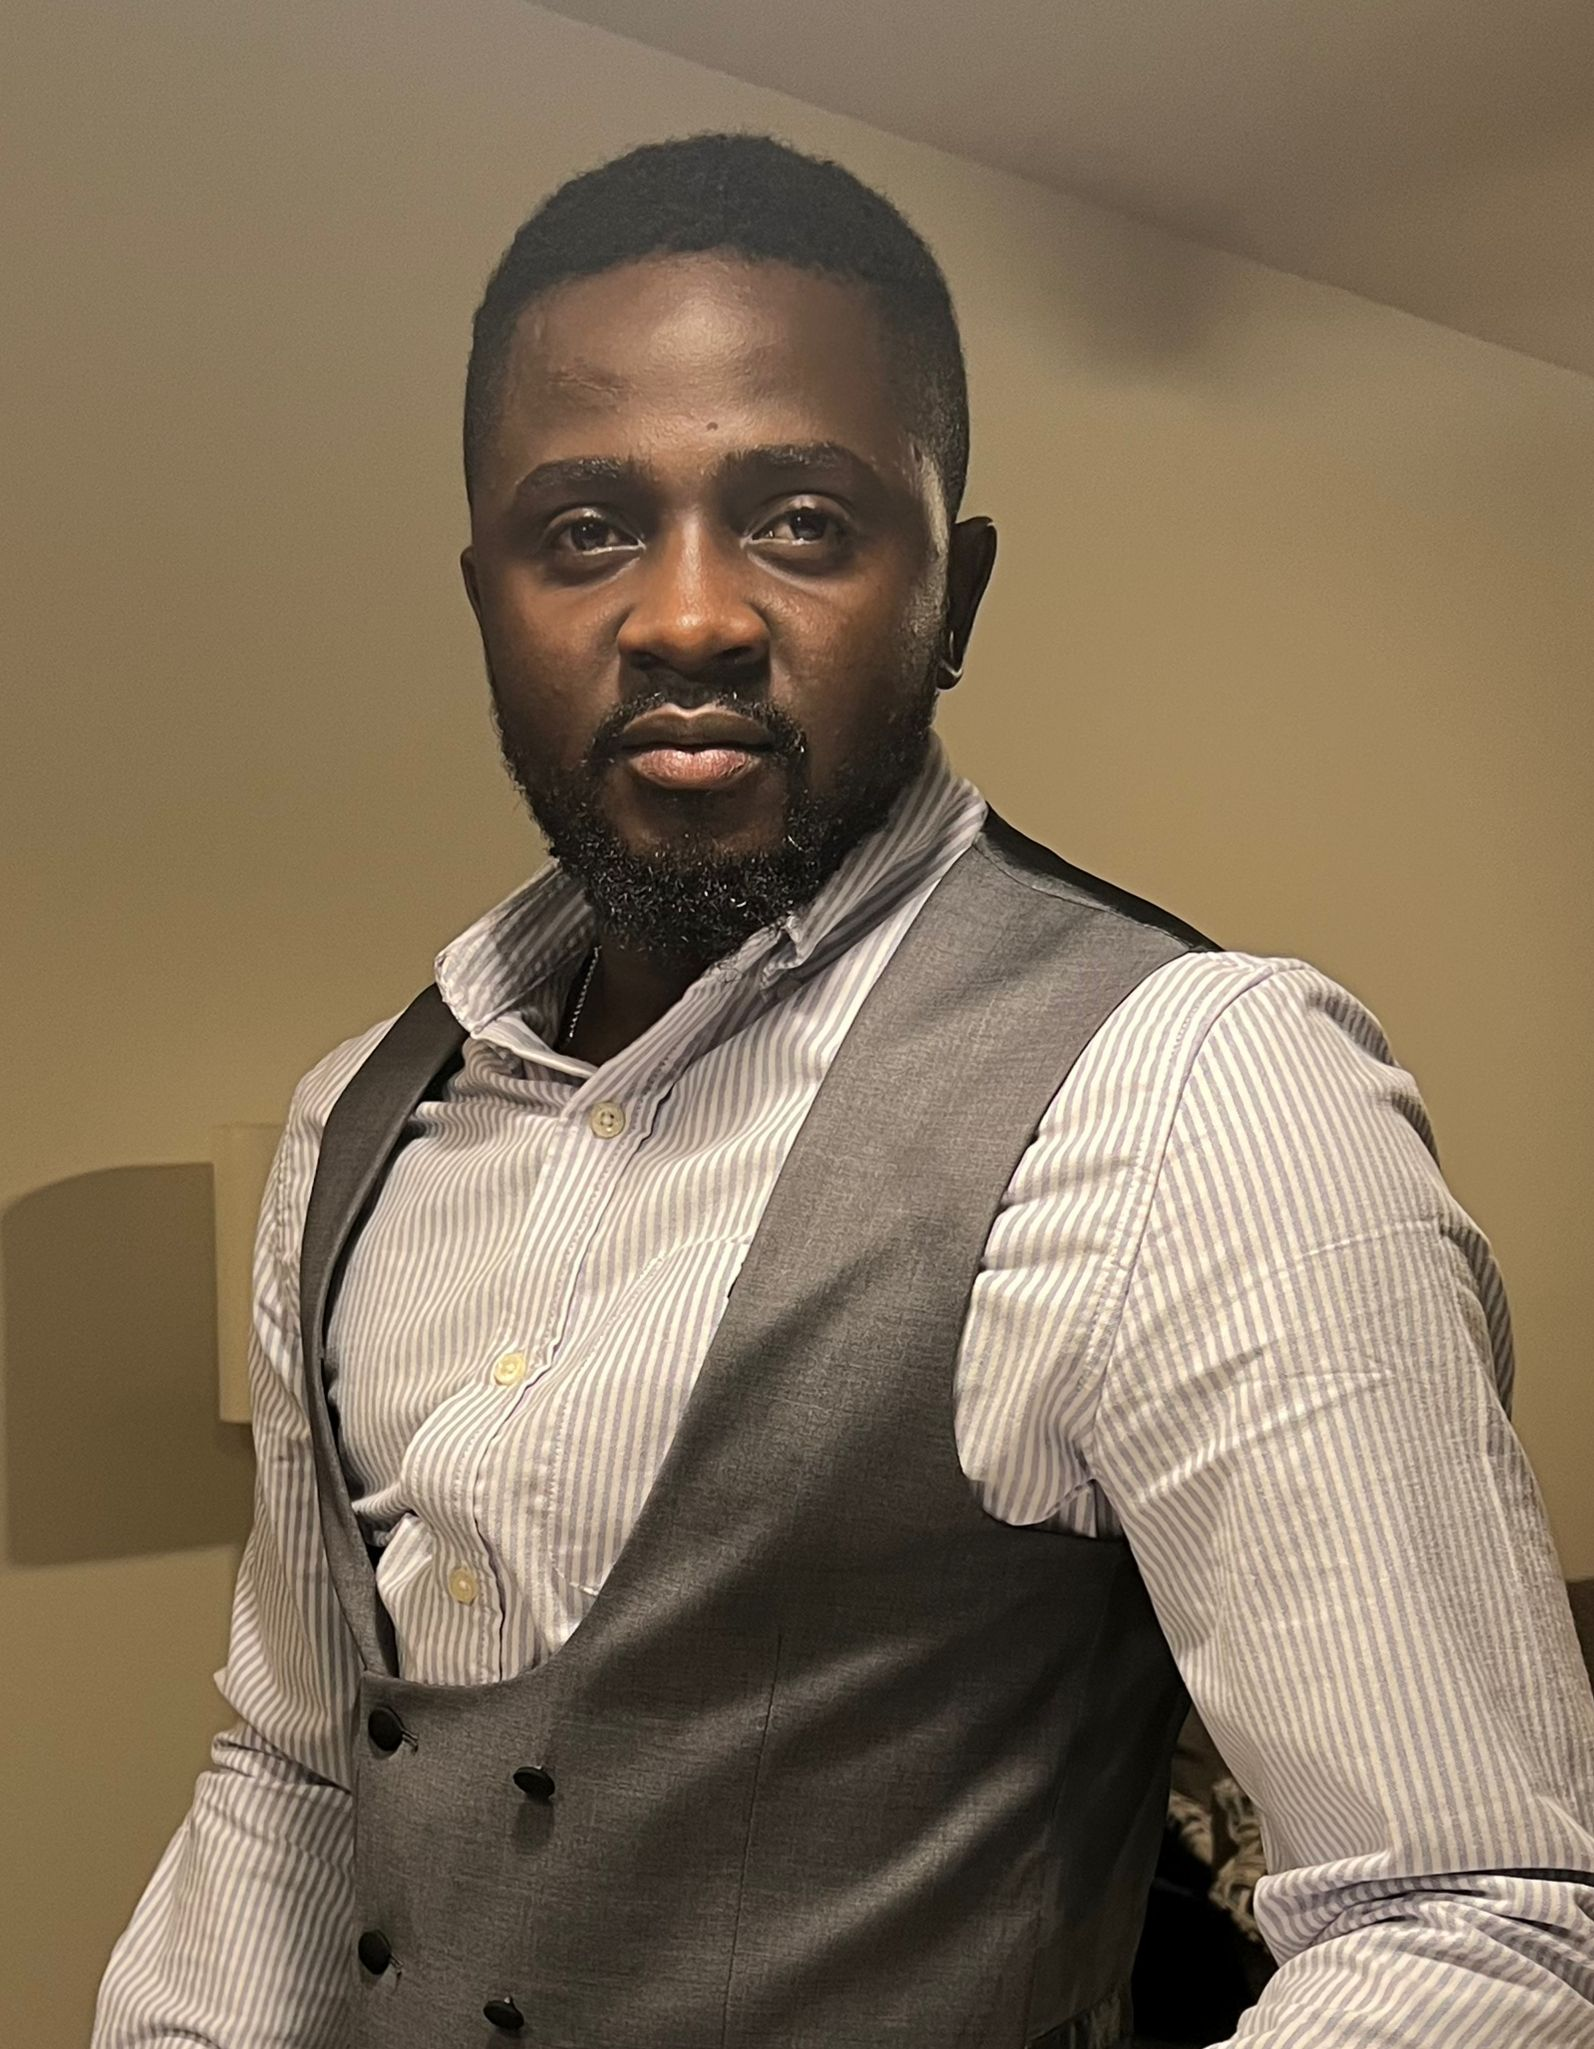
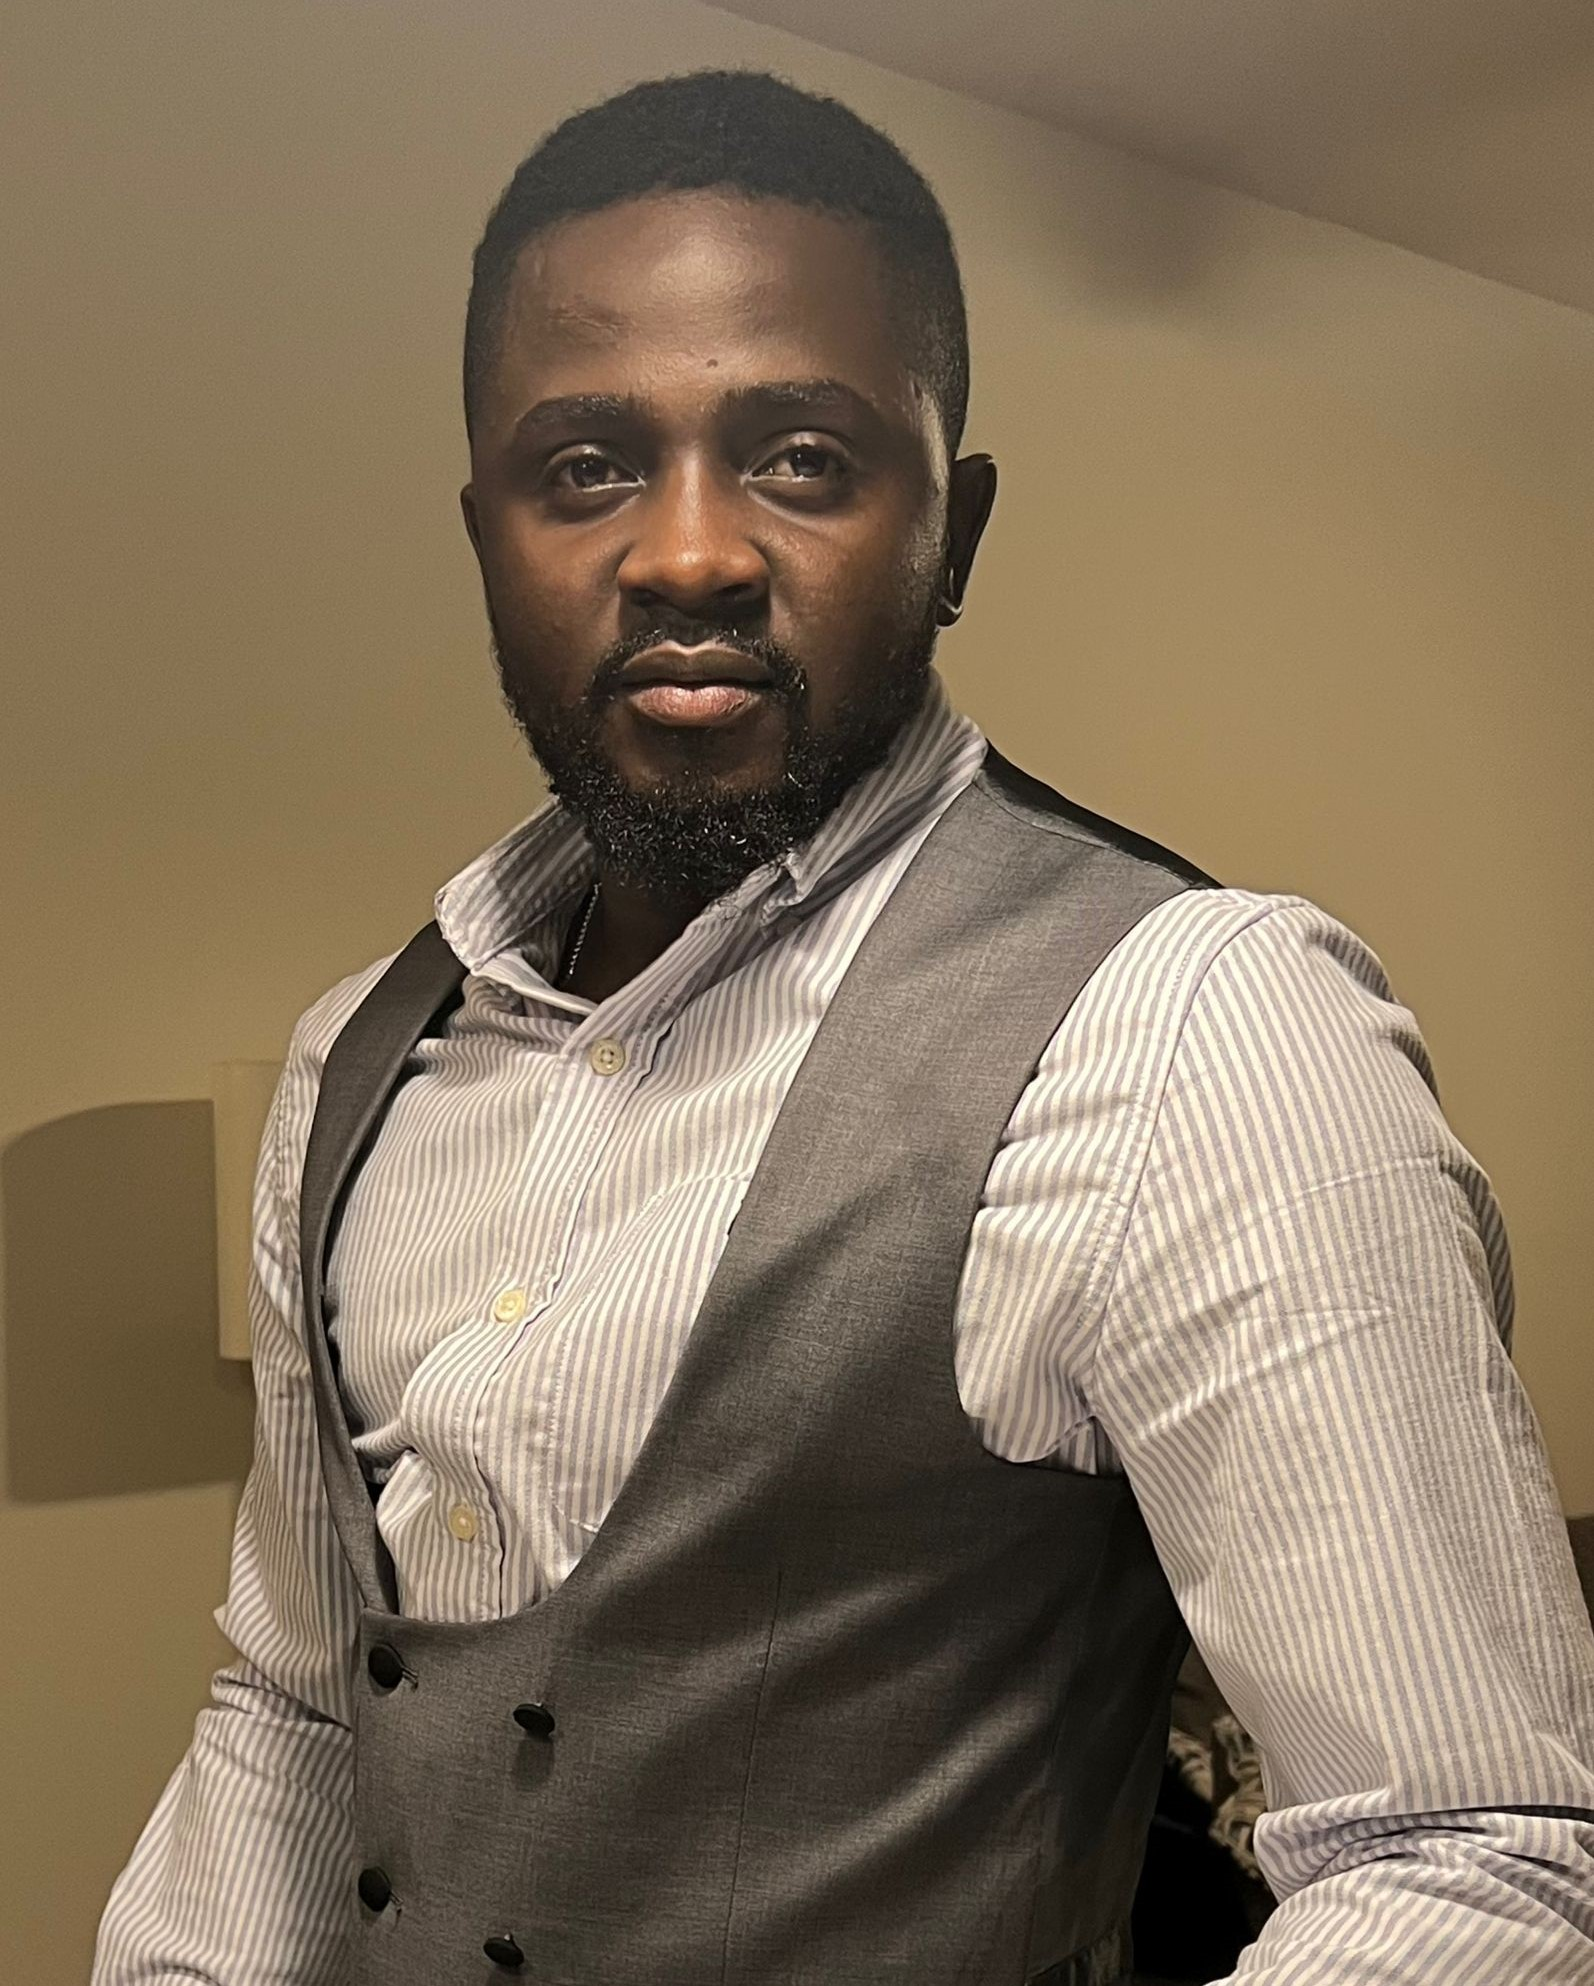
Added new staff

diff --git a/staff.html b/staff.html
@@ -296,6 +296,42 @@
             </p>
           </div>
         </div>
+
+        <div class="row g-5 mt-4">
+          <div class="col-lg-5" style="min-height: 400px">
+            <div class="position-relative h-100">
+              <img
+                class="img-fluid position-absolute w-100 h-100"
+                src="images/Matinou.jpg"
+                alt="Matinou Inoussa image"
+                style="object-fit: contain"
+              />
+            </div>
+          </div>
+          <div class="col-lg-7">
+            <h5 class="bg-white text-start text-primary pe-3">
+              Matinou Inoussa
+            </h5>
+            <p class="mb-4">
+              Matinou Inoussa, an ex-football player from Benin and Sweden, is
+              currently based in Stockholm, Sweden. With 15 years of experience
+              in football, Matinou has established himself as a youth coach and
+              academy development manager, having worked with prominent Swedish
+              clubs such as IF Brommapojkarna and Hammarby IF. His expertise in
+              developing young talents and managing football academies has made
+              him a highly regarded figure in the Swedish football community.
+            </p>
+            <p class="mb-4">
+              Matinou is now working as a football consultant, focusing on the
+              Northern European market, particularly in Scandinavia. His
+              specialties include player scouting and performance coaching,
+              where he leverages his extensive experience to identify promising
+              talent and enhance player performance. His work as a consultant
+              allows him to contribute to the growth and success of football
+              clubs and players across the region.
+            </p>
+          </div>
+        </div>
       </div>
     </section>
     <!-- Staff End -->

diff --git a/index.html b/index.html
@@ -426,6 +426,21 @@
               </div>
             </div>
           </div>
+          <div class="col-lg-3 col-md-6">
+            <div class="team-item bg-light">
+              <div class="overflow-hidden">
+                <img
+                  class="img-fluid"
+                  src="images/Matinou.jpg"
+                  alt="Matinou Inoussa Image"
+                />
+              </div>
+              <div class="text-center p-3">
+                <h5 class="mb-0">Matinou Inoussa</h5>
+                <small>Football Consultant</small>
+              </div>
+            </div>
+          </div>
         </div>
       </div>
     </section>
